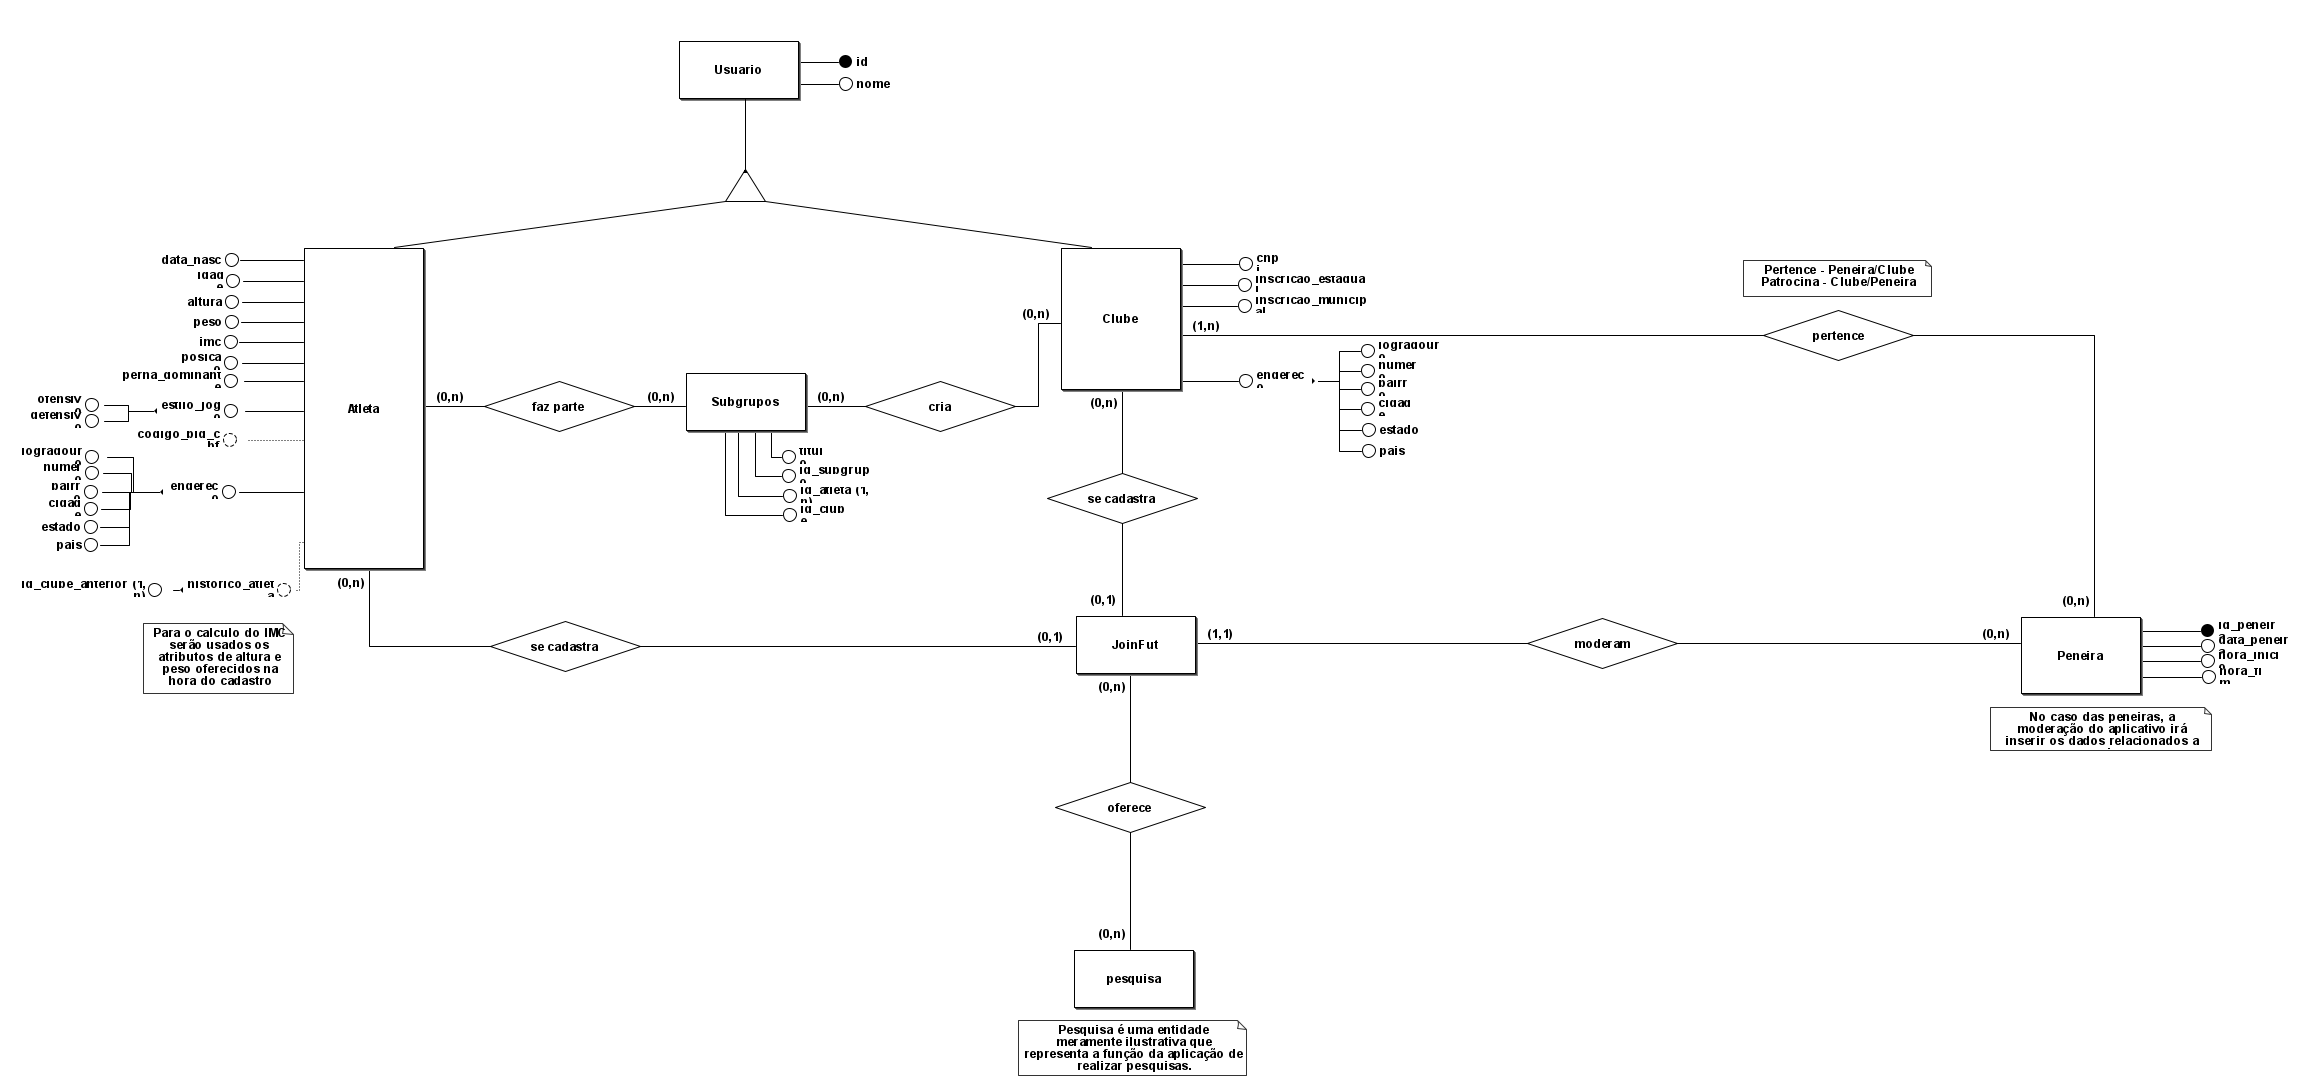
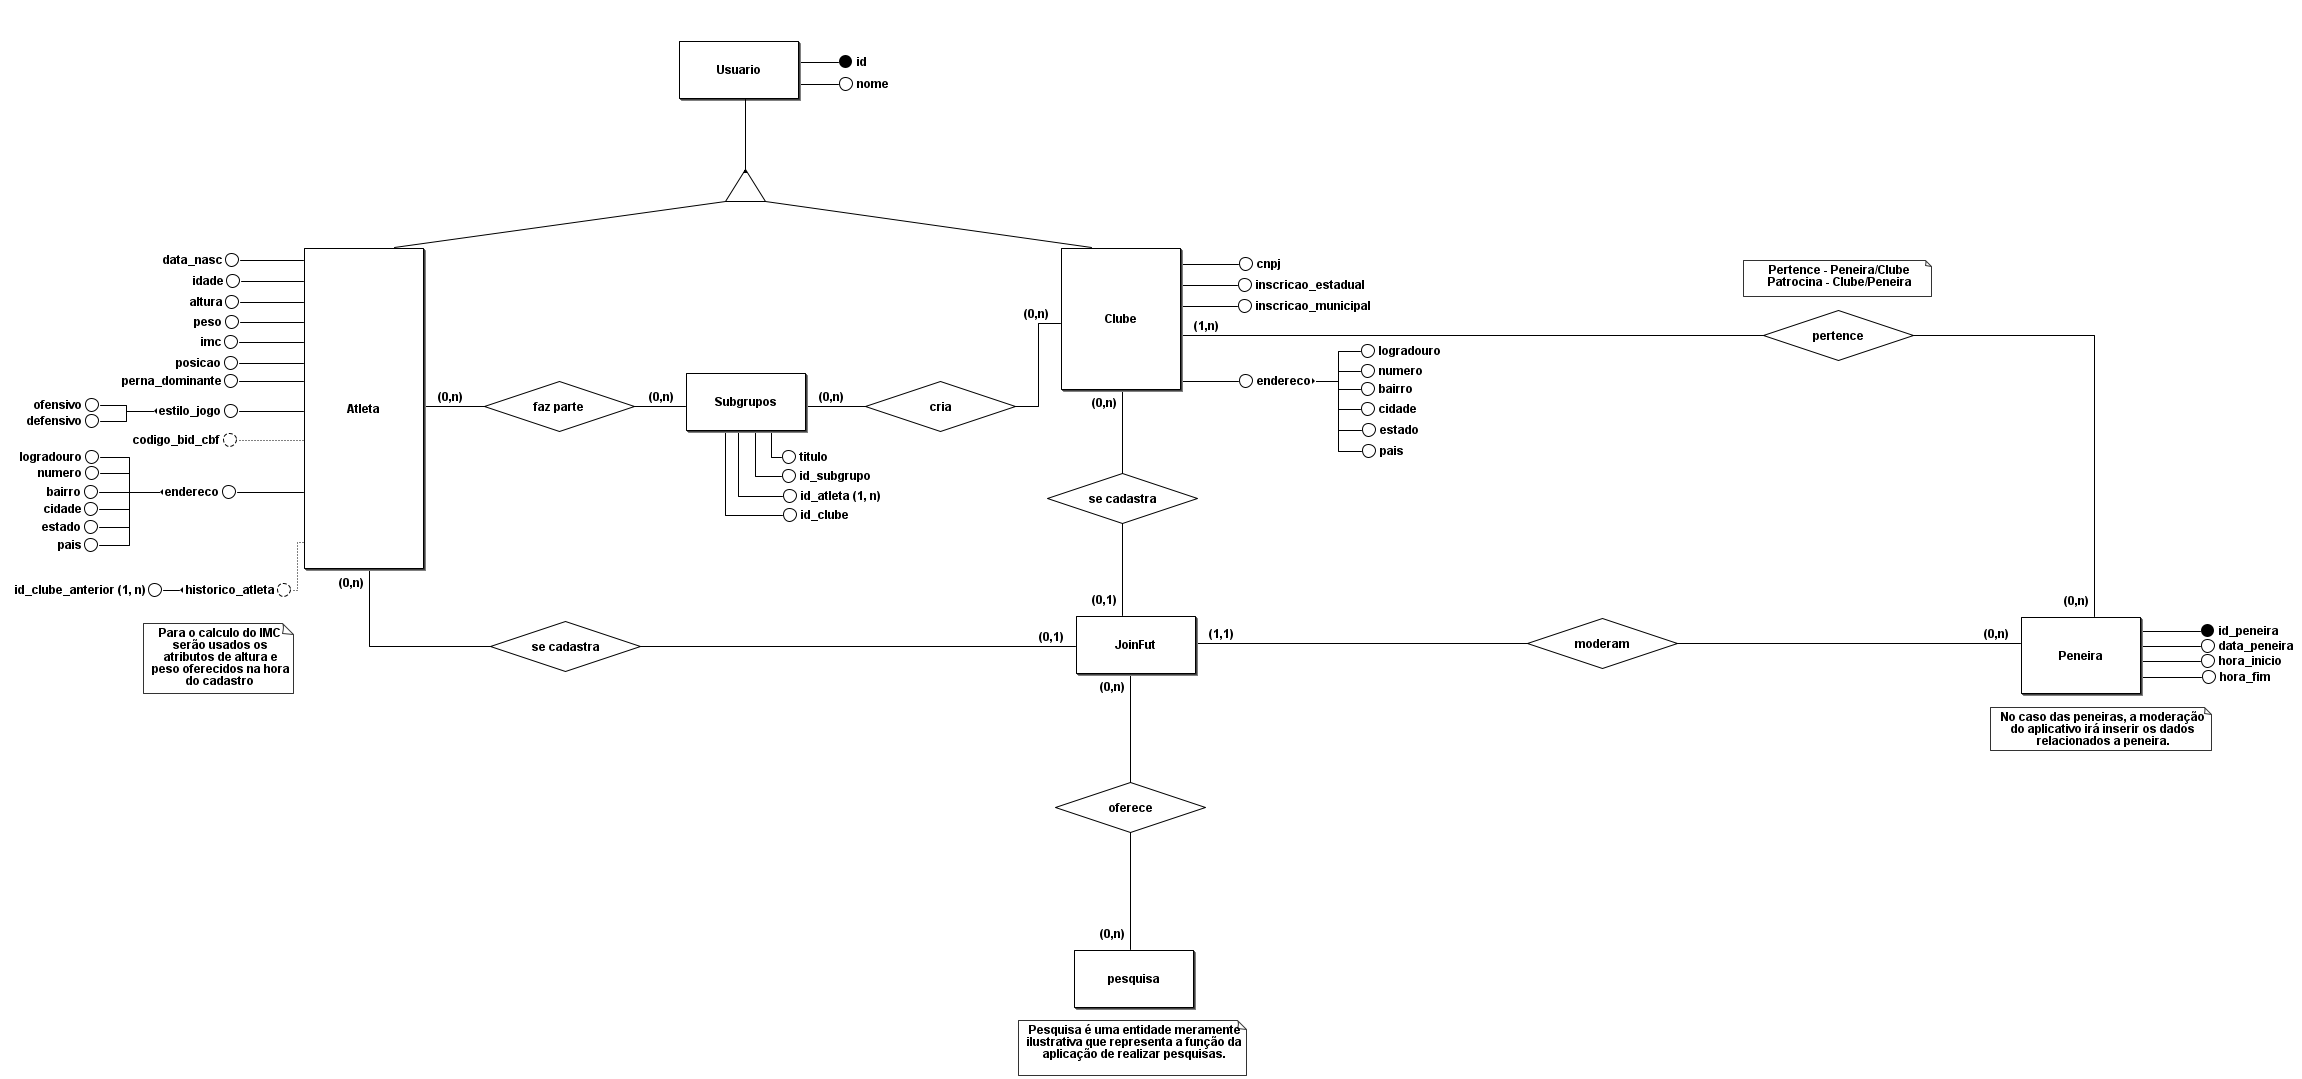
#23 Atualização da wiki relacionada ao banco de dados. Imagens quebradas foram corrigidas. Ainda falta o modelo relacional.

diff --git a/banco_dados.md b/banco_dados.md
@@ -35,12 +35,15 @@ Para o sistema, foi definido que seria utilizado o banco de dados Postgres. Esta
 
 ## Modelagem
 
-### Esquema Conceitual
+<br>
+
+### **Esquema Conceitual**
 
 <br>
 
 ### Sprint 0
 
+<br>
 
 Durante a sprint zero, foram definidas as primeiras entidades que serão realizadas pela equipe, sendo elas os dois usuários maiores do sistema: Atleta e Clube.
 
@@ -92,6 +95,8 @@ Abaixo, segue definida a modelagem conceitual do projeto na Sprint 0:
 
 ### Sprint 1
 
+<br>
+
 Seguindo o processo de modelagem na sprint 1, foram definidas novas entidades e relações no modelo conceitual do projeto. As entidades novas são: Subgrupos, Calendário e Peneira
 
 A entidade Subgrupo se baseia na capacidade de um clube poder adicionar Atletas específicos a uma determinada lista. Ela é composta pelos atributos: 
@@ -131,12 +136,68 @@ A entidade Calendário fora removida devido ao fato que não havia necessidade d
 E adição de um novo atributo na entidade de Subgrupo fora simplesmente para que o usuário clube possa livremente dar nomes às listas de atletas que deseja criar.
 
 <br>
+
 Abaixo, o modelo com suas alterações:
 
 <img src="resources/images/database/JoinFut_Conceitual3.png">
 
+<br>
 
-### Esquema Lógico
+E, para a atualização do modelo conceitual do banco, os atributos de endereço dos usuários Atleta e Clube foram colocados juntamente com a entidade Usuário, para evitar redundância de dados. 
+
+<br>
+
+Abaixo, o modelo conceitual relacionado a esta atualização: 
+
+<img src="resources/images/database/JoinFut_Conceitual4.png">
+
+<br>
+
+Durante a Sprint, tivemos novas informações apresentadas pelos Stakeholders, logo, foram necessárias novas atualizações no modelo do banco de dados. Estas tendo grande impacto na modelagem e alterando uma boa parte do modelo original proposto. 
+
+Foi validado com o cliente que as peneiras da aplicação teriam uma troca de nome, agora chamadas de pré-selecao, possuidoras dos seguintes atributos:
+
+- endereco
+    - logradouro
+    - numero
+    - bairro
+    - cidade
+    - estado
+    - pais
+
+Essa pré-seleção é criada a partir de um subgrupo, e engloba a ação de um clube poder iniciar uma “peneira” com os atletas já pré-selecionados pelo clube em subgrupos.
+
+Ocorreu também a adição do campo de email e de senha do usuário, juntamente com a remoção do histórico de clubes do atleta.
+
+Abaixo, o modelo conceitual relacionado a esta atualização:
+
+<br>
+
+<img src="resources/images/database/JoinFut_Conceitual5.png">
+
+<br>
+
+E para a finalização do modelo conceitual, foi levantado com a equipe a necessidade de mais uma entidade, chamada de Avaliação. Esta entidade deve englobar a capacidade do clube de dar dar notas a um atleta após a conclusão de sua pré-seleção.
+
+A entidade Avaliação possui os seguintes atributos:
+- id_avalicao
+- nota_clube
+
+<br>
+
+**Abaixo, o modelo conceitual da aplicação completo, englobando todas as requisições do cliente :**
+
+<img src="resources/images/database/Joinfut_Conceitual6 .png">
+
+<br>
+
+### **Esquema Lógico**
+
+<br>
+
+### Sprint 1
+
+<br>
 
 TBD
 
@@ -152,10 +213,14 @@ TBD
 
 TBD
 
-#### Postgrees
+### Postgrees
 
 TBD
 
-#### Ferramentas Utilizadas
+### Ferramentas Utilizadas
 
+- [BrModelo 3.31](https://www.sis4.com/brModelo/download.html).
 
+<br>
+
+*Wiki editada por: [Alexya Silva Rocha de Oliveira](https://tools.ages.pucrs.br/alexya.oliveira)*
